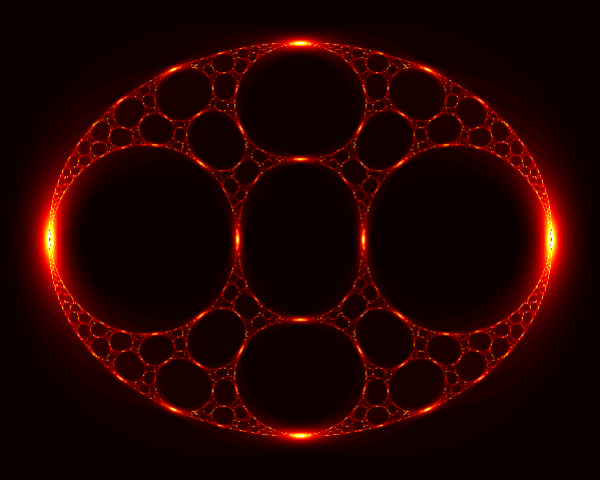
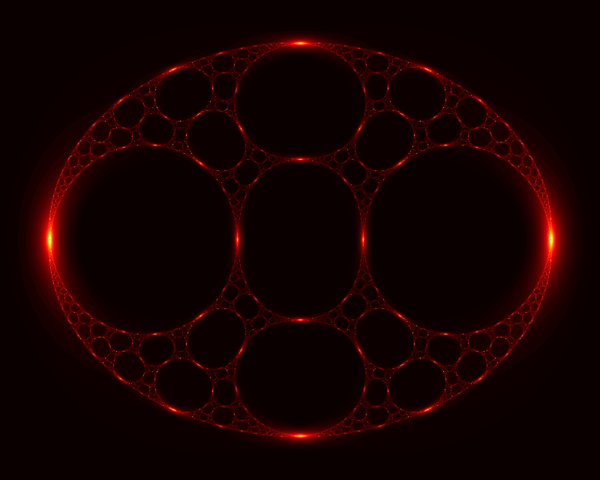
supersampling in julia.py and kaleidoscope.py

Changed region(s): [[0.03, 0.0625, 0.99, 0.9375]]

diff --git a/src/misc/newton.py b/src/misc/newton.py
@@ -37,7 +37,7 @@ def iterate(z):
 
 
 def render(imgsize):
-    y, x = np.ogrid[1: -1: imgsize*1j, -1: 1: imgsize*1j]
+    y, x = np.ogrid[1: -1: imgsize*2j, -1: 1: imgsize*2j]
     z = x +y*1j
     img = np.frompyfunc(iterate, 1, 1)(z).astype(np.float)
     fig = plt.figure(figsize=(imgsize/100.0, imgsize/100.0), dpi=100)
@@ -48,4 +48,4 @@ def render(imgsize):
 
 
 if __name__ == '__main__':
-    render(imgsize=400)
+    render(imgsize=600)

diff --git a/src/misc/kaleidoscope.py b/src/misc/kaleidoscope.py
@@ -30,7 +30,7 @@ def Mobius(z):
 
 
 def main(imgsize):
-    y, x = np.ogrid[6: -6: imgsize*1j, -6: 6: imgsize*1j]
+    y, x = np.ogrid[6: -6: imgsize*2j, -6: 6: imgsize*2j]
     z = x + y*1j
     z = RiemannSphere(Klein(Mobius(Klein(z))))
 
@@ -50,4 +50,4 @@ def main(imgsize):
 
 
 if __name__ == '__main__':
-    main(imgsize=400)
+    main(imgsize=800)

diff --git a/src/misc/julia.py b/src/misc/julia.py
@@ -27,7 +27,7 @@ def escape(z):
 
 
 def main(xmin, xmax, ymin, ymax, width, height):
-    y, x = np.ogrid[ymax: ymin: height*1j, xmin: xmax: width*1j]
+    y, x = np.ogrid[ymax: ymin: height*2j, xmin: xmax: width*2j]
     z = x + y*1j
     img = np.asarray(np.frompyfunc(escape, 1, 1)(z)).astype(np.float)
     img /= np.max(img)

diff --git a/src/misc/mandelbrot.py b/src/misc/mandelbrot.py
@@ -48,4 +48,4 @@ def main(xmin, xmax, ymin, ymax, width, height):
 
 
 if __name__ == '__main__':
-    main(-2.1, 0.8, -1.16, 1.16, 1200, 960)
+    main(-2.1, 0.8, -1.16, 1.16, 800, 640)

diff --git a/README.md b/README.md
@@ -1,13 +1,14 @@
-<p align="center"><img src="./alice.png"></p>
-
 # A Tour in the Wonderland of Math with Python
+
+
+<p align="center"><img src="./alice.png"></p>
 
 > A collection of python scripts for drawing beautiful figures or animating interesting algorithms in mathematics.
 
 **This repository will be always under construction since there are too many interesting things in math that can be shown by code.** Pull requests, issues, questions, and suggestions are all welcomed!
 
 
-[![License: MIT](https://img.shields.io/badge/License-MIT-blue.svg)](https://opensource.org/licenses/MIT) [![PyPI](https://img.shields.io/pypi/pyversions/Django.svg)]()
+[![License: MIT](https://img.shields.io/badge/License-MIT-red.svg)](https://opensource.org/licenses/MIT) [![PyPI](https://img.shields.io/pypi/pyversions/Django.svg)]()
 
 
 ## Contents
